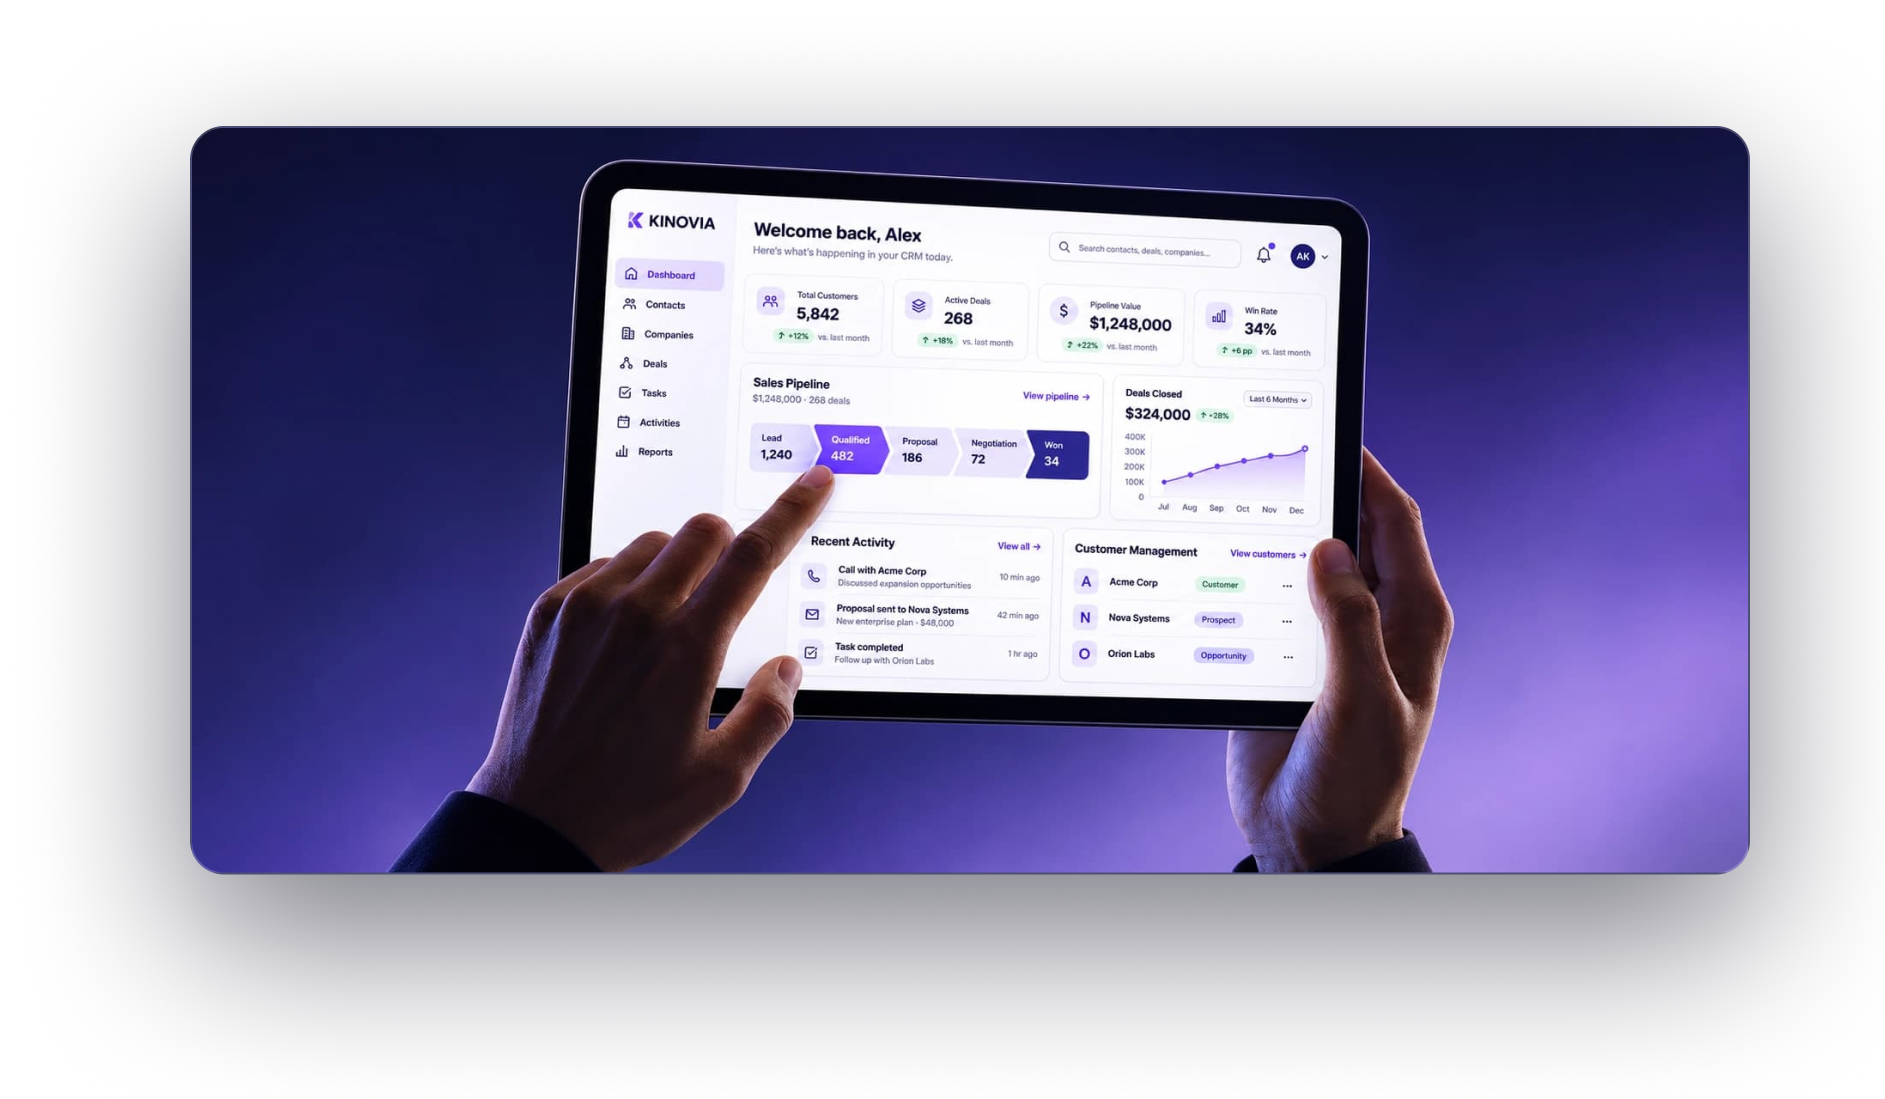
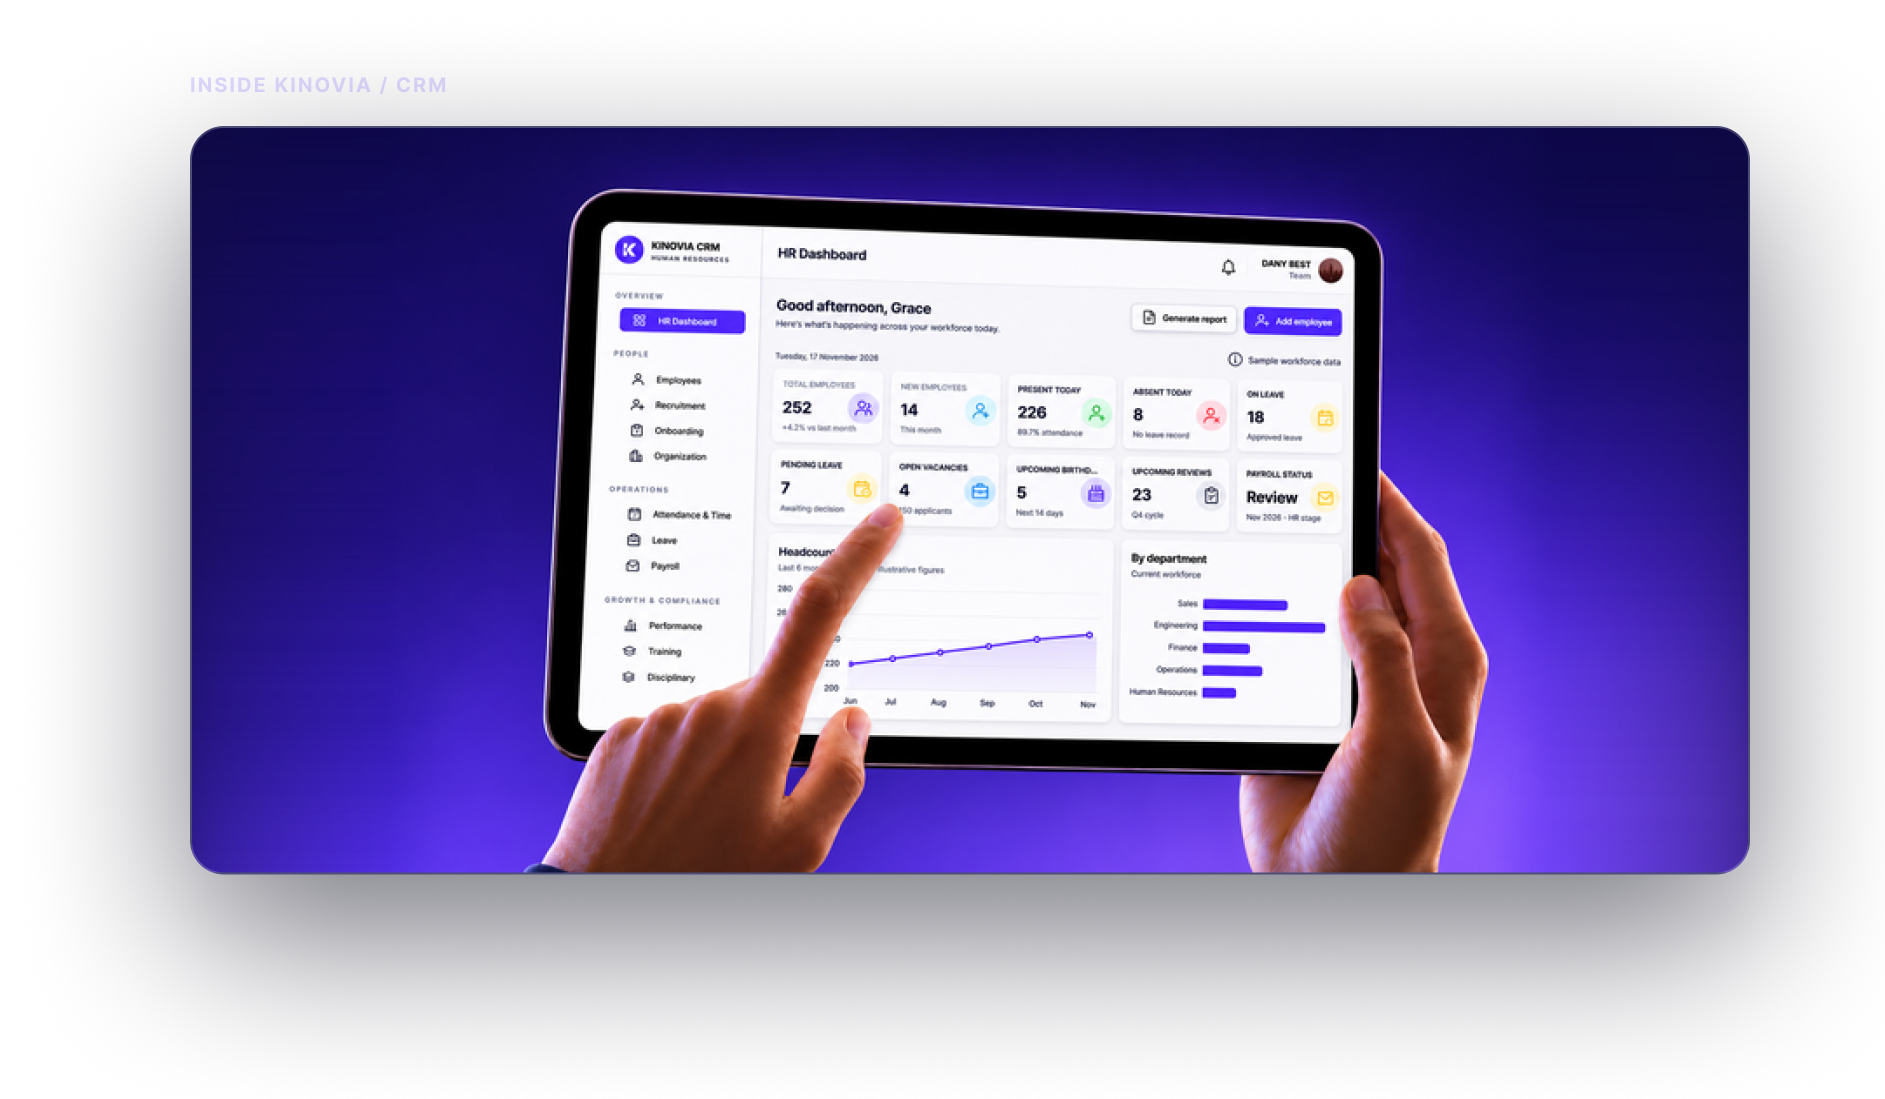
feat(product page, and updates)

diff --git a/src/routes/home/products.index.tsx b/src/routes/home/products.index.tsx
@@ -1,9 +1,183 @@
-import { createFileRoute } from "@tanstack/react-router";
+import { createFileRoute, Link } from "@tanstack/react-router";
+import { ArrowRight, ArrowUpRight, House, Truck } from "lucide-react";
+import HomeNav from "./-components/HomeNav";
+import LandingFooter from "./-components/LandingFooter";
+import SupportTicketSection from "./-components/SupportTicketSection";
 
 export const Route = createFileRoute("/home/products/")({
   component: RouteComponent,
 });
 
+const upcomingProducts = [
+  {
+    title: "Logistics/E-commerce",
+    description:
+      "Planned tools for coordinating deliveries, managing movement, and keeping operational updates in view.",
+    icon: Truck,
+    image: "/products_page/logistics.png",
+    alt: "Logistics and e-commerce product preview",
+  },
+  {
+    title: "Estate Management App",
+    description:
+      "A connected mobile experience for managing properties, resident requests, maintenance, and estate operations with greater ease.",
+    icon: House,
+    image: "/products_page/estate.png",
+    alt: "Estate management app preview",
+  },
+];
+
 function RouteComponent() {
-  return <div>Hello "/home/products/"!</div>;
+  return (
+    <div className="min-h-screen bg-white text-slate-900 font-sans antialiased selection:bg-[#5958ed]/20 selection:text-[#5958ed]">
+      <HomeNav />
+
+      <main className="mx-auto max-w-7xl px-4 sm:px-6 lg:px-8">
+        {/* Featured product */}
+        <section className="pt-12 sm:pt-16">
+          <p className="mb-4 text-sm font-semibold text-[#5958ed]">
+            Our featured software
+          </p>
+
+          <div className="relative overflow-hidden rounded-3xl bg-[#0f0d34] px-6 py-10 sm:px-10 sm:py-12 lg:px-12">
+            <div className="grid items-center gap-10 lg:grid-cols-12 lg:gap-8">
+              {/* Copy */}
+              <div className="lg:col-span-5 space-y-6">
+                <span className="inline-flex items-center gap-2 rounded-full border border-white/15 bg-white/5 px-3.5 py-1.5 text-xs font-medium text-white/80">
+                  <span className="size-1.5 rounded-full bg-emerald-400" />
+                  Available now
+                </span>
+
+                <p className="text-xs font-semibold uppercase tracking-[0.18em] text-white/50">
+                  Kinovia CRM
+                </p>
+
+                <h1 className="text-4xl font-semibold leading-[1.1] tracking-tight text-white sm:text-5xl lg:text-[52px]">
+                  Every customer.
+                  <br />
+                  Every opportunity.
+                  <br />
+                  <span className="text-[#a9a6f5]">One clear view.</span>
+                </h1>
+
+                <p className="max-w-md text-sm leading-relaxed text-white/70 sm:text-base">
+                  Keep customer details, conversations, and sales opportunities
+                  organized in one workspace, so your team can stay focused on
+                  what matters.
+                </p>
+              </div>
+
+              {/* Preview */}
+              <div className="lg:col-span-7">
+                <p className="mb-3 text-[11px] font-semibold uppercase tracking-[0.18em] text-white/40">
+                  Inside Kinovia / CRM
+                </p>
+                <div className="overflow-hidden rounded-2xl border border-white/10">
+                  <img
+                    src="/products_page/hero_img.png"
+                    alt="Kinovia CRM workspace on a tablet"
+                    className="h-auto w-full"
+                    loading="eager"
+                  />
+                </div>
+              </div>
+            </div>
+          </div>
+        </section>
+
+        {/* More products */}
+        <section className="py-16 sm:py-20">
+          <div className="mb-10 grid gap-4 sm:mb-12 lg:grid-cols-2 lg:items-end">
+            <h2 className="text-3xl font-medium leading-tight tracking-tight text-slate-900 sm:text-4xl lg:text-[44px]">
+              More software
+              <br />
+              products <span className="text-[#5958ed]">to work with</span>
+            </h2>
+            <p className="max-w-sm text-sm leading-relaxed text-slate-500 sm:text-base lg:justify-self-end">
+              Beyond customer relationships, KINOVIA is exploring tools to bring
+              greater clarity to how businesses move goods and sell online.
+            </p>
+          </div>
+
+          <div className="grid gap-6 md:grid-cols-2">
+            {upcomingProducts.map((product) => {
+              const Icon = product.icon;
+              return (
+                <article
+                  key={product.title}
+                  className="group relative overflow-hidden rounded-2xl border border-[#e8e7fa] bg-gradient-to-b from-[#f9f9ff] to-[#f0f0fd] p-7 transition-all duration-300 hover:-translate-y-1 hover:border-[#cfcdfb] hover:shadow-xl hover:shadow-[#5958ed]/10"
+                >
+                  <span className="inline-flex rounded-full border border-slate-200 bg-white px-3 py-1 text-[11px] font-medium text-slate-500">
+                    Upcoming
+                  </span>
+
+                  <div className="mt-6 flex items-start justify-between gap-6">
+                    <div className="max-w-[15rem] space-y-4">
+                      <span className="inline-grid size-11 place-items-center rounded-xl border border-[#e4e3fb] bg-white text-[#5958ed]">
+                        <Icon className="size-5" />
+                      </span>
+                      <h3 className="text-xl font-bold text-slate-900">
+                        {product.title}
+                      </h3>
+                      <p className="text-sm leading-relaxed text-slate-600">
+                        {product.description}
+                      </p>
+                    </div>
+
+                    <img
+                      src={product.image}
+                      alt={product.alt}
+                      className="hidden w-52 shrink-0 sm:block"
+                      loading="lazy"
+                    />
+                  </div>
+
+                  <div className="mt-6 flex items-center gap-2">
+                    <Link
+                      to="/home/contact-us"
+                      className="text-sm font-semibold text-[#5958ed] hover:text-[#4b4ad4]"
+                    >
+                      Ask about {product.title.split("/")[0]}
+                    </Link>
+                    <Link
+                      to="/home/contact-us"
+                      aria-label={`Ask about ${product.title}`}
+                      className="grid size-6 place-items-center rounded-full border border-slate-300 text-slate-500 transition-colors group-hover:border-[#5958ed] group-hover:bg-[#5958ed] group-hover:text-white"
+                    >
+                      <ArrowUpRight className="size-3.5" />
+                    </Link>
+                  </div>
+                </article>
+              );
+            })}
+          </div>
+        </section>
+
+        {/* Closing CTA */}
+        <section className="pb-16 sm:pb-20">
+          <div className="flex flex-col items-start justify-between gap-4 rounded-2xl border border-[#e8e7fa] bg-[#f7f7ff] p-6 sm:flex-row sm:items-center sm:p-8">
+            <div className="space-y-1">
+              <h2 className="text-lg font-bold text-slate-900">
+                Want to shape what we build next?
+              </h2>
+              <p className="text-sm text-slate-600">
+                Tell us how your business moves goods, sells online, or manages
+                property.
+              </p>
+            </div>
+            <Link
+              to="/home/contact-us"
+              className="inline-flex shrink-0 items-center gap-2 rounded-xl bg-[#5958ed] px-5 py-3 text-sm font-semibold text-white shadow-md shadow-[#5958ed]/25 transition-all hover:bg-[#4b4ad4]"
+            >
+              <span>Talk to us</span>
+              <ArrowRight className="size-4" />
+            </Link>
+          </div>
+        </section>
+      </main>
+      <SupportTicketSection />
+
+      <LandingFooter />
+    </div>
+  );
 }

diff --git a/src/routes/home/-components/ConnectedSessions.tsx b/src/routes/home/-components/ConnectedSessions.tsx
@@ -56,7 +56,7 @@ const SESSIONS: SolutionSession[] = [
       },
     ],
     buttonText: "Ask about KINOVIA CRM",
-    buttonHref: "/auth/register",
+    buttonHref: "/home/products",
     imageSrc: "/homepage/experiences/crm.png",
     imageAlt: "Kinovia CRM software tablet preview",
   },
@@ -85,7 +85,7 @@ const SESSIONS: SolutionSession[] = [
       },
     ],
     buttonText: "Enquire about Estate App",
-    buttonHref: "/auth/register",
+    buttonHref: "/home/products",
     imageSrc: "/homepage/experiences/estate_management.png",
     imageAlt: "Kinovia Estate Management mobile preview",
   },
@@ -114,7 +114,7 @@ const SESSIONS: SolutionSession[] = [
       },
     ],
     buttonText: "Enquire about Logistics",
-    buttonHref: "/auth/register",
+    buttonHref: "/home/products",
     imageSrc: "/homepage/experiences/logistics.png",
     imageAlt: "Kinovia Logistics and E-commerce operations overview",
   },

diff --git a/src/routes/home/-components/HomeNav.tsx b/src/routes/home/-components/HomeNav.tsx
@@ -27,6 +27,7 @@ export default function HomeNav() {
 
   const navLinks = [
     { name: "Home", href: "/" },
+    { name: "Products", href: "/home/products" },
     { name: "Contact us", href: "/home/contact-us" },
     { name: "FAQs", href: "/home/faq" },
   ] as const;
